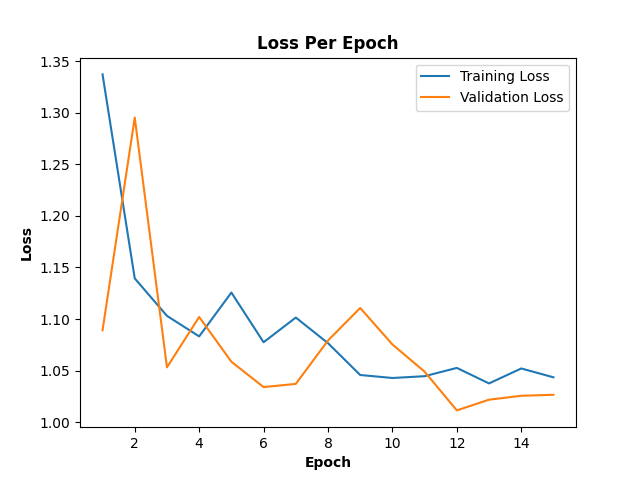
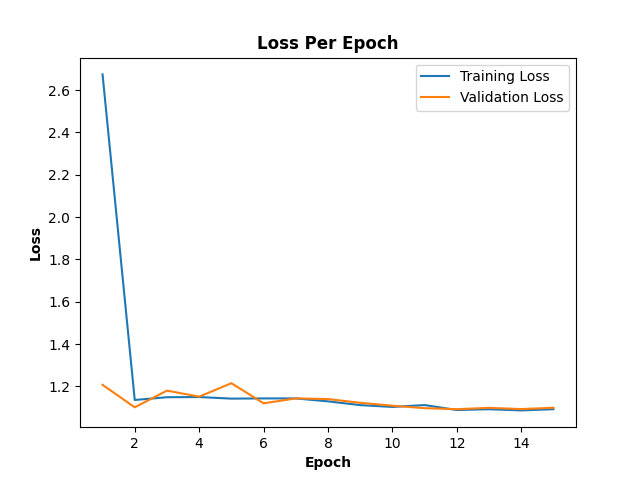
updated code to improve readibility in main.py

diff --git a/src/main.py b/src/main.py
@@ -1,6 +1,6 @@
 from pathlib import Path
 from data import Data
-from patcher import Patcher
+from executor import Executor
 from vi_t import ViT
 from patch_embedding import PatchEmbedding
 from transformer_encoder import TransformerEncoder
@@ -8,7 +8,6 @@ import torchvision
 import torch
 import config
 from torchinfo import summary
-from train_test import TrainTest
 from random import seed as randomSeed
 from plotter import Plotter
 from torch import nn
@@ -45,12 +44,6 @@ print(f"Validation data size: {len(val_dataloader.dataset)}\t= {len(val_dataload
 print(f"Test data size:       {len(test_dataloader.dataset)}\t= {len(test_dataloader)} batches.")
 print("-" * 50)
 
-# Patching the dataset
-patcher = Patcher()
-patcher.calculate_num_patches(config.IMG_SIZE, config.IMG_SIZE, config.PATCH_SIZE)
-print(f"Number of patches: {patcher.num_patches}")
-print("-" * 50)
-
 # Create instance of ViT
 vit = ViT(num_classes=len(transformed_data.classes))
 summary(model = vit,
@@ -61,18 +54,17 @@ summary(model = vit,
 )
 print("-" * 50)
 
-# Setup the optimizer to optimize our ViT model parameters using hyperparameters from the ViT paper 
 optimizer_Adam = torch.optim.Adam(params=vit.parameters(), 
-                             lr=3e-3, # Base LR from Table 3 for ViT-* ImageNet-1k
-                             betas=(0.9, 0.999), # default values but also mentioned in ViT paper section 4.1 (Training & Fine-tuning)
-                             weight_decay=0.3) # from the ViT paper section 4.1 (Training & Fine-tuning) and Table 3 for ViT-* ImageNet-1k
+                             lr=3e-3, 
+                             betas=(0.9, 0.999), 
+                             weight_decay=0.3) 
 
 optimizer_SGD = torch.optim.SGD(params=vit.parameters(), 
                                 lr=3e-3,
                                 momentum=0.2,
                                 weight_decay=0.3) 
                                 
-optimizer_selected = optimizer_SGD
+optimizer_selected = optimizer_Adam
 
 if torch.cuda.is_available():
     device = "cuda"
@@ -83,14 +75,12 @@ else:
     
 device = torch.device(device)
 
-# Setup the loss function for multi-class classification
 loss_fn = torch.nn.CrossEntropyLoss()
 
-# Setup a random seed
 randomSeed(config.SEED_NO)
 
 # Train the model and save the training results to a dictionary
-executor = TrainTest()
+executor = Executor()
 results = executor.trainAll(device=device,
                    model=vit,
                    train_dataloader=train_dataloader,
@@ -105,71 +95,24 @@ plotter.plotComparison(results["train_loss"], "Training Loss", results["val_loss
 plotter.plotComparison(results["train_accuracy"], "Training Accuracy", results["val_accuracy"], "Validation Accuracy", "Accuracy Per Epoch", "Accuracy", "accuracy-per-epoch.png")
 
 # Test the model
-def predictImage(model: nn.Module, 
-                 image_path: str,
-                 label_list: list,
-                 transform=None, 
-                 device: torch.device=device,
-                 file_name: str=""):
-        """
-        model = vit
-        image = "path/file.jpg"
-        transform = the same transform as the trainging data
-        """
-        image = torchvision.io.read_image(str(image_path))
-        # output (Tensor[image_channels, image_height, image_width])
-        image = image.type(torch.float32)
-        image = image / 255.0  # normalized to [0,1]
-
-        if transform:
-            image = transform(image)
-
-        # Start prediction using inference_mode()
-        model.to(device)
-        model.eval()
-        with torch.inference_mode():
-            # Add 1 dimension to become [num_samples, channel, image_size, image_size]
-            img_tensor = image.unsqueeze(dim=0)
-            pred_logit = model(img_tensor.to(device))
-
-            # Convert logits to probability distribution
-            pred_prob = torch.softmax(pred_logit, dim=1)
-            max_prob = pred_prob.max()
-                    
-            # Convert probability to label
-            pred_id = torch.argmax(pred_prob, dim=1)
-            label_str = label_list[pred_id]
-            
-            print("Prediction probability for each class:",pred_prob)
-
-        # plot the image
-        # need to convert image back to HWC
-        plt_img = image.permute(1, 2, 0)
-        plt.imshow(plt_img)
-        title = f"Prediction: {label_str}\n probility = {max_prob:.2%}"
-        plt.title(title)
-        plt.axis(False)
-        plt.savefig(file_name)
-
 filename1 = "images/test_samoyed_1.jpeg"
 filename2 = "images/test_golden_retriever_1.jpeg"
 filename3 = "images/test_collie_1.jpeg"
-
-predictImage(model=vit,
+executor.predictImage(model=vit,
              image_path=filename1,
              label_list=transformed_data.classes,
              transform=transformer.load_data(),
              device=device,
              file_name="test_samoyed.jpeg")
 
-predictImage(model=vit,
+executor.predictImage(model=vit,
              image_path=filename2,
              label_list=transformed_data.classes,
              transform=transformer.load_data(),
              device=device,
              file_name="test_golden_retriever.jpeg")
 
-predictImage(model=vit,
+executor.predictImage(model=vit,
              image_path=filename3,
              label_list=transformed_data.classes,
              transform=transformer.load_data(),

diff --git a/src/executor.py b/src/executor.py
@@ -2,9 +2,10 @@ import time
 from tqdm import tqdm
 import torch
 import torch.nn as nn
+import torchvision
+import matplotlib.pyplot as plt
 
-
-class TrainTest:
+class Executor:
     def __init__(self):
         pass
 
@@ -65,18 +66,14 @@ class TrainTest:
                 loss_fn: nn.Module,
                 optimizer: nn.Module,
                 epochs: int):
-        """
-        """
         start_train = time.time()
         results = {"train_loss" : [],
                 "train_accuracy" : [], 
                 "val_loss" : [],
                 "val_accuracy" : []}
         
-        # use the designated device
         model.to(device)
         
-        # train multiple epoches
         for epo in tqdm(range(epochs)):
             train_loss, train_accuracy = self.train_1Epoch(device=device, 
                                                     model=model,
@@ -103,10 +100,40 @@ class TrainTest:
         return results  
 
     def randomSeed(seed_number: int):
-        """
-        Setup random seeds for reproducibility
-        """
         torch.manual_seed(seed_number)
-        # random seed for CUDA if CUDA is available
         if torch.cuda.is_available():
             torch.cuda.manual_seed(seed_number)
+
+    def predictImage(self, 
+                 model: nn.Module, 
+                 image_path: str,
+                 label_list: list,
+                 device: torch.device,
+                 transform=None, 
+                 file_name: str=""):
+        image = torchvision.io.read_image(str(image_path))
+        image = image.type(torch.float32)
+        image = image / 255.0
+
+        if transform:
+            image = transform(image)
+
+        model.to(device)
+        model.eval()
+        with torch.inference_mode():
+            img_tensor = image.unsqueeze(dim=0)
+            pred_logit = model(img_tensor.to(device))
+            pred_prob = torch.softmax(pred_logit, dim=1)
+            max_prob = pred_prob.max()
+                    
+            pred_id = torch.argmax(pred_prob, dim=1)
+            label_str = label_list[pred_id]
+            
+            print("Prediction probability for each class:",pred_prob)
+
+        plt_img = image.permute(1, 2, 0)
+        plt.imshow(plt_img)
+        title = f"Prediction: {label_str}\n probility = {max_prob:.2%}"
+        plt.title(title)
+        plt.axis(False)
+        plt.savefig(file_name)
